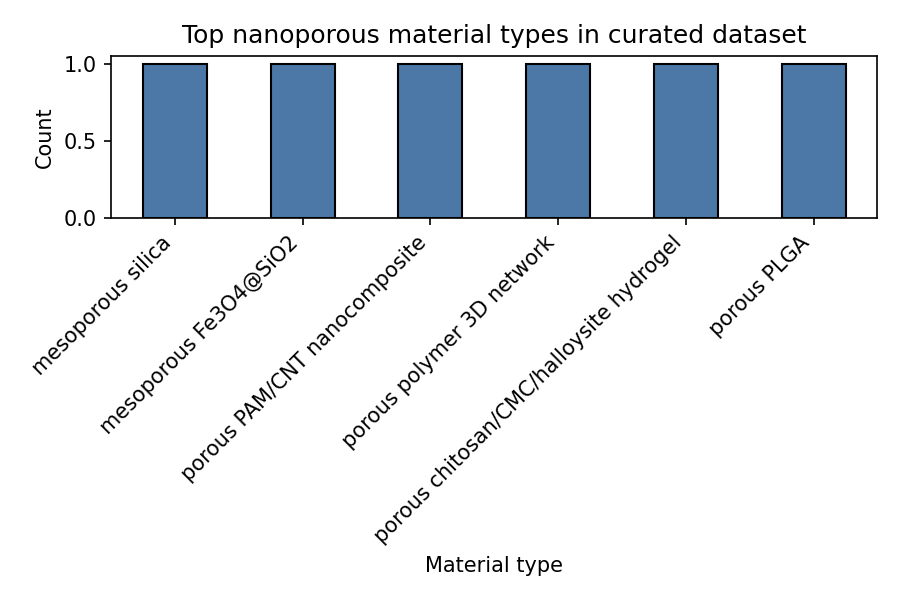
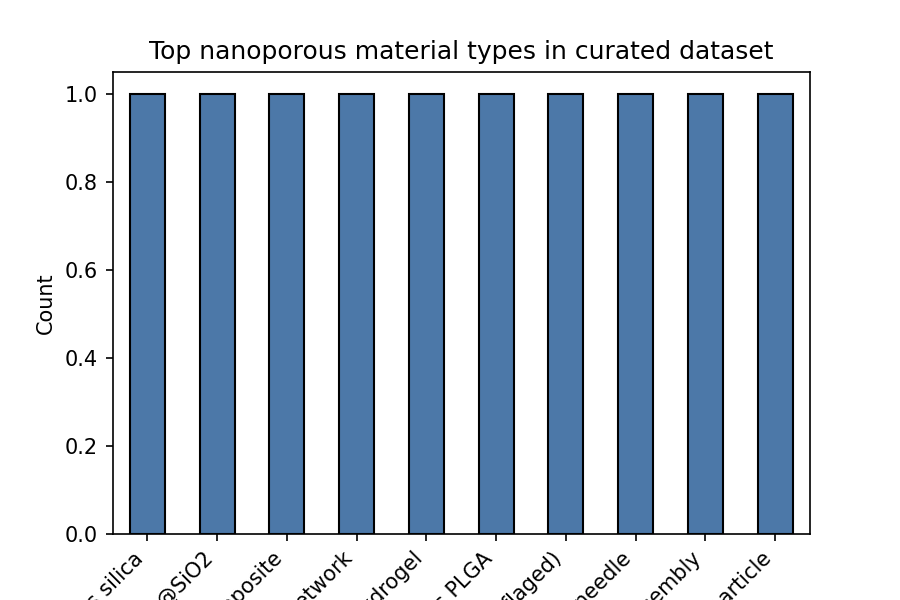
Step 1: Add curated lit-search rows, methodology, contributing docs, regenerate figures
Curated 3 additional papers from the local PubMed lit search (PMID/DOI cited,
no hallucinated metrics):
- PMID 42611768 - porous PS-PEG microneedles (ACS Sensors 2026)
- PMID 42462004 - HFM nanopore-assembled mRNA LNPs (ACS Nano 2026)
- PMID 41036216 - MOF-808 teriparatide oral delivery (Materials Today Bio 2025)

Curated dataset now has 10 rows, each with verifiable PMID/DOI references.
Added docs/methodology.md (extraction -> curation -> analysis pipeline) and
CONTRIBUTING.md (how to add curated rows, no-hallucination rule). Regenerated
size_distribution.png and material_counts.png with the expanded dataset.

diff --git a/docs/methodology.md b/docs/methodology.md
@@ -1,0 +1,90 @@
+# Methodology — Extraction → Curation → Analysis Pipeline
+
+This document describes how the curated nanoporous-drug-delivery dataset was built,
+from literature extraction through curation to exploratory analysis.
+
+## 1. Literature extraction
+
+Source review (adapted under CC BY 4.0):
+
+> Ahmed S., Mujahid M.H., Kour M., Fatima S., Ahamad S., Mishra S.K.,
+> Bhat A.R., Abu-Rayyan A., Tebeje B.A. "Molecular design and therapeutic
+> applications of polymeric nanoparticles for drug delivery: A comprehensive
+> review." *Results in Chemistry* 28 (2026) 103459.
+> https://doi.org/10.1016/j.rechem.2026.103459
+
+First-pass candidate extraction is performed from `paper.txt` (the PDF-extracted
+review text) using `src/extract_nanoporous.py`. The extractor:
+
+* Falls back through `utf-8` → `cp1252` → `latin-1` encoding for legacy
+  Windows-extracted PDF text.
+* Splits two-column interleaved text into windows and de-duplicates overlapping
+  spans (character-overlap threshold) so the same sentence from both columns
+  isn't counted twice.
+* Extracts nanometre-range particle sizes via `(\d+(?:\.\d+)?(?:\s*-\s*\d+(?:\.\d+)?)?)\s*nm`.
+* Extracts encapsulation / drug-loading percentages.
+* Outputs `data/raw/nanoporous_candidates.csv` (ignored by git — raw, uncurated).
+
+Additional recent literature was retrieved locally (no hallucinated citations)
+using the ClawBio Lit Synthesizer against PubMed E-utilities and bioRxiv
+(query: `nanoporous nanoparticles drug delivery`, date 2026-11-21). Every paper
+cited in the curated dataset carries a verifiable PMID and/or DOI.
+
+## 2. Curation
+
+Raw candidates are hand-curated into `data/processed/nanoporous_curated.csv`
+(tracked by git). Each row contains:
+
+| Column | Description |
+|--------|-------------|
+| material_type | Class of nanoporous material |
+| drug_cargo | Therapeutic agent loaded |
+| encapsulation_efficiency_pct | Reported drug-loading efficiency (%) |
+| particle_size_nm | Reported diameter (nm) |
+| release_pct | Drug released under stated conditions |
+| release_time_h | Timepoint for release measurement |
+| stimuli_trigger | Release trigger (pH, temperature, light, enzyme, redox, NIR) |
+| disease_target | Cancer or disease context |
+| reference_in_review | Bracketed citation number from review, or [PMID NNNNNNNN] |
+| notes | Manual curation notes including the full bibliographic reference |
+
+**No-hallucination rule**: numeric metrics (size, EE%, release%) are only recorded
+when they appear verbatim in the source abstract/full text. Blank cells mean the
+metric was not reported in the abstract and full-text review is pending. Values
+are never inferred or rounded from unrelated figures.
+
+Each row's `notes` field records the full citation (authors, journal, year, DOI)
+so every entry is independently verifiable.
+
+## 3. Analysis
+
+Exploratory analysis is run with:
+
+```
+py -3 -I notebooks/01_nanoporous_meta_analysis.py
+```
+
+It reads `data/processed/nanoporous_curated.csv` and writes:
+
+* `results/figures/size_distribution.png` — histogram of particle sizes (only
+  generated when at least one numeric size is present).
+* `results/figures/material_counts.png` — bar chart of material type counts.
+
+Figures are tracked by git so they appear on GitHub. The analysis requires
+`pandas>=2.0` and `matplotlib>=3.5` (see `requirements.txt`).
+
+## 4. Continuous integration
+
+`.github/workflows/analysis.yml` re-runs the analysis on every push/PR to
+`main` and `init/nanoporous-meta-analysis`, installs `requirements.txt`,
+verifies the curated dataset exists, and commits any regenerated figures.
+
+## 5. Reproducibility
+
+All code and data in this repository are CC BY 4.0, adapted from Ahmed et al.
+(2026) under CC BY 4.0. To reproduce:
+
+1. `py -3 -m pip install -r requirements.txt`
+2. `py -3 -I src/extract_nanoporous.py C:\path\to\paper.txt data/raw/nanoporous_candidates.csv`
+3. Hand-curate candidates into `data/processed/nanoporous_curated.csv`
+4. `py -3 -I notebooks/01_nanoporous_meta_analysis.py`

diff --git a/CONTRIBUTING.md b/CONTRIBUTING.md
@@ -1,0 +1,56 @@
+# Contributing
+
+Thank you for helping improve the nanoporous drug delivery in silico
+meta-analysis! This project curates verifiable, citable metrics from the
+nanoporous/mesoporous drug-delivery literature (adapted from Ahmed et al. 2026,
+CC BY 4.0).
+
+## How to add a curated row
+
+1. **Find the paper.** Use a real source (PubMed, bioRxiv, or the publisher's
+   site). Record the title, authors, journal, year, DOI/PMID, and URL. Do not
+   invent citations.
+
+2. **Extract metrics from the source.** Only record values that appear verbatim
+   in the abstract or full text:
+   * particle size (nm)
+   * encapsulation / drug-loading efficiency (%)
+   * release (%)
+   * release time (h)
+   * material type, drug cargo, stimuli trigger, disease target
+
+   Leave a cell blank if the metric is not reported — never guess or infer it.
+
+3. **Edit `data/processed/nanoporous_curated.csv`.** Append one row with these
+   columns in this order:
+
+   `material_type,drug_cargo,encapsulation_efficiency_pct,particle_size_nm,
+   release_pct,release_time_h,stimuli_trigger,disease_target,
+   reference_in_review,notes`
+
+   In the `notes` field, include the full bibliographic reference (authors,
+   journal, year, DOI) so the row is independently verifiable.
+
+4. **Run the analysis** to regenerate figures:
+
+   ```
+   py -3 -I notebooks/01_nanoporous_meta_analysis.py
+   ```
+
+5. **Commit** the updated CSV and any changed figures, and push to your branch.
+
+## No-hallucination rule
+
+Every curated row must be traceable to a real paper with a verifiable DOI or
+PMID. Numeric values must come from the source text, not from memory or
+estimation. If you cannot verify a number from the source, leave it blank and
+note that full-text review is needed.
+
+## License
+
+All contributions are licensed under CC BY 4.0, consistent with the rest of the
+repository and the source review (Ahmed et al. 2026, CC BY 4.0).
+
+## Questions
+
+Open an issue on GitHub or contact the repository owner.
